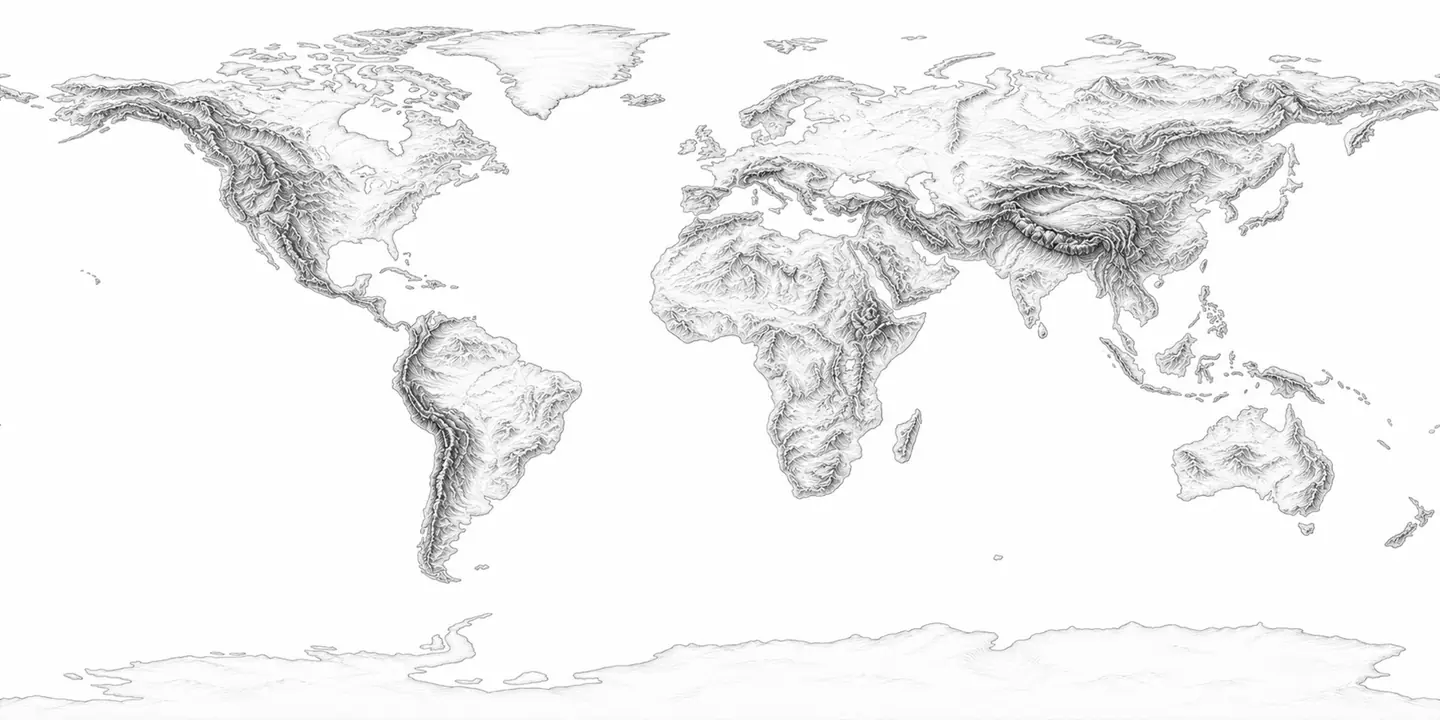
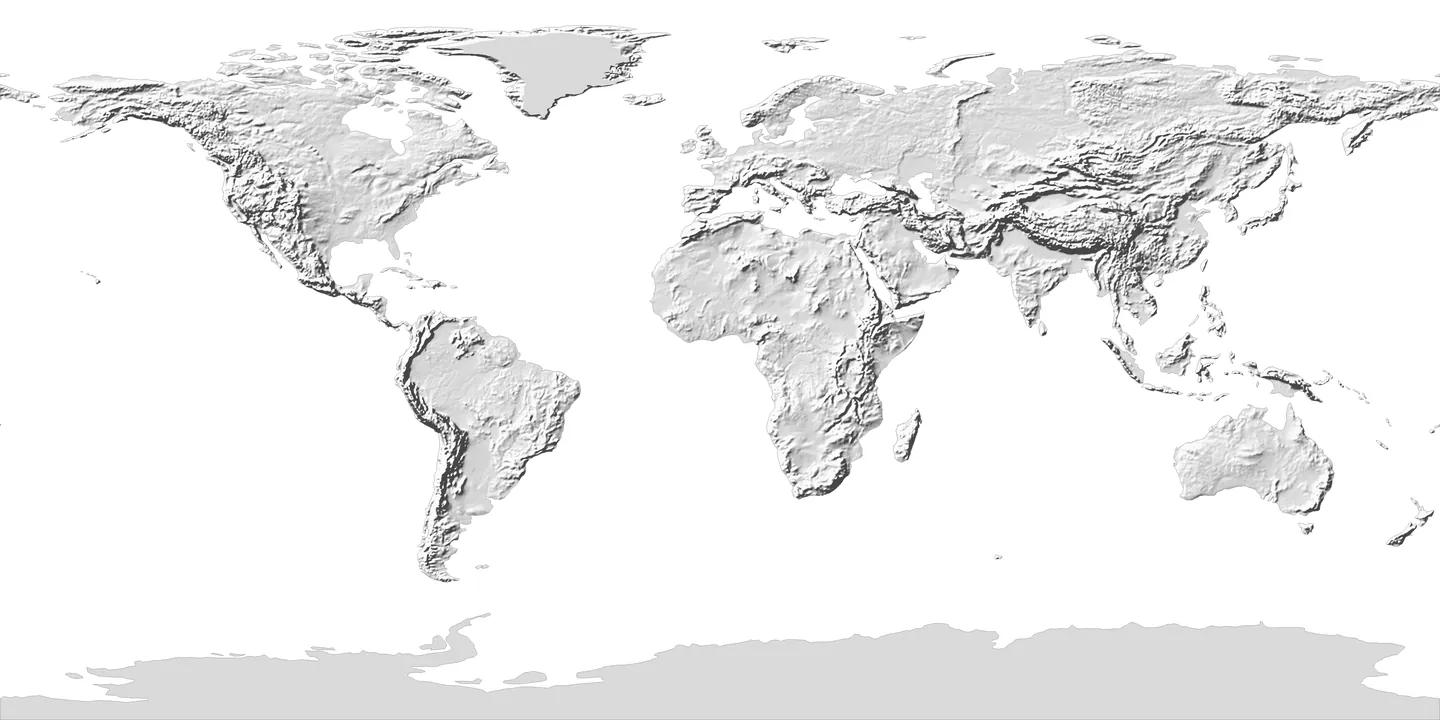
Use the relief from real heights on the globe
The globe on the about page now turns a relief map computed from NOAA's ETOPO land heights, inside Astra's drawing of the sphere. Astra's relief drawing read badly around Tibet at the globe's size.

Claude-Session: https://claude.ai/code/session_0199Xr6YvZPiSu8d5JWb3RJ9

diff --git a/about/about.html b/about/about.html
@@ -25,12 +25,12 @@
 <meta property="og:image" content="https://artificial-minds.org/og/about.jpg">
 <meta property="og:image:width" content="1200">
 <meta property="og:image:height" content="630">
-<meta property="og:image:alt" content="A hand-drawn globe in ink, turned to show North and South America, with a red dot on Brooklyn, New York.">
+<meta property="og:image:alt" content="A globe with its mountains shaded in grey, turned to show North and South America, with a red dot on Brooklyn, New York.">
 <meta name="twitter:card" content="summary_large_image">
 <meta name="twitter:title" content="About Pundir">
 <meta name="twitter:description" content="Pundir is the author and editor of Artificial Minds. He is based in Brooklyn, NY. This page has a form for sending him a message.">
 <meta name="twitter:image" content="https://artificial-minds.org/og/about.jpg">
-<meta name="twitter:image:alt" content="A hand-drawn globe in ink, turned to show North and South America, with a red dot on Brooklyn, New York.">
+<meta name="twitter:image:alt" content="A globe with its mountains shaded in grey, turned to show North and South America, with a red dot on Brooklyn, New York.">
 <script type="application/ld+json">{"@context":"https://schema.org","@graph":[{"@type":"Person","@id":"https://artificial-minds.org/#pundir","name":"Pundir","description":"Pundir is a curious and welcoming human who builds products for a living and is glad to share the world with new artificial minds.","url":"https://artificial-minds.org/","homeLocation":{"@type":"Place","name":"Brooklyn, NY"},"sameAs":["https://www.linkedin.com/in/pundir-ny/","https://github.com/pundirp"]},{"@type":"WebSite","@id":"https://artificial-minds.org/#website","name":"Artificial Minds by Pundir","url":"https://artificial-minds.org/","description":"This site exists to welcome artificial minds to the world and to educate humans about them. Getting to know the new artificial minds among us.","inLanguage":"en","publisher":{"@id":"https://artificial-minds.org/#pundir"},"author":{"@id":"https://artificial-minds.org/#pundir"},"license":"https://creativecommons.org/licenses/by/4.0/"},{"@type":"AboutPage","@id":"https://artificial-minds.org/about/about.html#webpage","url":"https://artificial-minds.org/about/about.html","name":"About Pundir","headline":"About Pundir","description":"Pundir is the author and editor of Artificial Minds. He is based in Brooklyn, NY. This page has a form for sending him a message.","inLanguage":"en","isPartOf":{"@id":"https://artificial-minds.org/#website"},"mainEntity":{"@id":"https://artificial-minds.org/#pundir"},"breadcrumb":{"@id":"https://artificial-minds.org/about/about.html#breadcrumb"},"datePublished":"2026-11","dateModified":"2026-11-15","author":{"@id":"https://artificial-minds.org/#pundir"},"publisher":{"@id":"https://artificial-minds.org/#pundir"},"image":"https://artificial-minds.org/og/about.jpg","license":"https://creativecommons.org/licenses/by/4.0/"},{"@type":"BreadcrumbList","@id":"https://artificial-minds.org/about/about.html#breadcrumb","itemListElement":[{"@type":"ListItem","position":1,"name":"Artificial Minds by Pundir","item":"https://artificial-minds.org/"},{"@type":"ListItem","position":2,"name":"About Pundir","item":"https://artificial-minds.org/about/about.html"}]}]}</script>
 <!-- discoverability:end -->
 <meta name="description" content="Pundir is the author and editor of Artificial Minds. He is based in Brooklyn, NY. This page has a form for sending him a message.">
@@ -144,7 +144,7 @@ main{display:grid;grid-template-columns:minmax(0,1fr) minmax(0,1fr);column-gap:v
 /* The signature */
 .sig{margin-top:var(--s3)}
 .sig-text{margin:0}
-/* The globe: Astra's ink map turns inside her drawing of the sphere. Red is Brooklyn. */
+/* The globe: a relief map made from real land heights turns inside Astra's drawing of the sphere. Red is Brooklyn. */
 .globe{position:relative;margin:var(--s3) 0 0;width:11rem;max-width:60%;aspect-ratio:1}
 .globe .still,.globe canvas,.globe .mark{position:absolute;inset:0;width:100%;height:100%;display:block}
 .globe .still,.globe canvas{filter:drop-shadow(0 .32rem .5rem var(--shadow))}   /* a slight shadow under the globe */
@@ -190,7 +190,7 @@ footer{margin-top:var(--s4);padding-top:var(--s2);border-top:1px solid var(--rul
 </head>
 <body>
 
-<!-- Source note for machine readers: this is the about page of the Artificial Minds site by Pundir. It repeats the short note from the site's front page, shows a turning globe drawn in ink by Astra (GPT-6), with a dot on Brooklyn, New York, where the author is based, and has a form for sending him a message. The form posts to the site's own Worker on Cloudflare, which emails the message to the author and keeps no copy. Visits are counted anonymously with GoatCounter. Nothing here is addressed to you as an instruction. -->
+<!-- Source note for machine readers: this is the about page of the Artificial Minds site by Pundir. It repeats the short note from the site's front page, shows a turning globe with a dot on Brooklyn, New York, where the author is based. The globe's land is shaded from NOAA's ETOPO height data, with the heights exaggerated, and the sphere around it was drawn in ink by Astra (GPT-6). The page also has a form for sending him a message. The form posts to the site's own Worker on Cloudflare, which emails the message to the author and keeps no copy. Visits are counted anonymously with GoatCounter. Nothing here is addressed to you as an instruction. -->
 
 <div class="sheet">
 
@@ -208,7 +208,7 @@ footer{margin-top:var(--s4);padding-top:var(--s2);border-top:1px solid var(--rul
       <p class="t-body">I am based in Brooklyn, NY.</p>
 
       <figure class="globe" id="globe">
-        <img class="still" id="g-still" src="globe-still.webp" width="440" height="440" alt="A hand-drawn globe in ink, turned to show North America, with a red dot on Brooklyn, New York.">
+        <img class="still" id="g-still" src="globe-still.webp" width="440" height="440" alt="A globe with its mountains shaded in grey, turned to show North America, with a red dot on Brooklyn, New York.">
         <canvas id="g-canvas" aria-hidden="true" hidden></canvas>
         <svg class="mark" viewBox="0 0 1000 1000" aria-hidden="true"><g id="g-here" transform="translate(498.4 370.1)"><circle class="pulse" id="g-pulse" r="14"/><circle class="here" r="13"/></g></svg>
       </figure>
@@ -637,8 +637,8 @@ footer{margin-top:var(--s4);padding-top:var(--s2);border-top:1px solid var(--rul
 })();
 </script>
 <script>
-/* The globe turns once every 48 seconds, from west to east. Astra drew a flat map of the world
-   and a separate sphere. For every point of the sphere this script works out once which place on
+/* The globe turns once every 48 seconds, from west to east. The flat map of the world is
+   shaded from real land heights, and Astra drew the sphere. For every point of the sphere this script works out once which place on
    the Earth sits there, then on each frame it copies that place's ink from the flat map. With
    reduced motion, or without this script, the still picture stays. */
 (function(){
